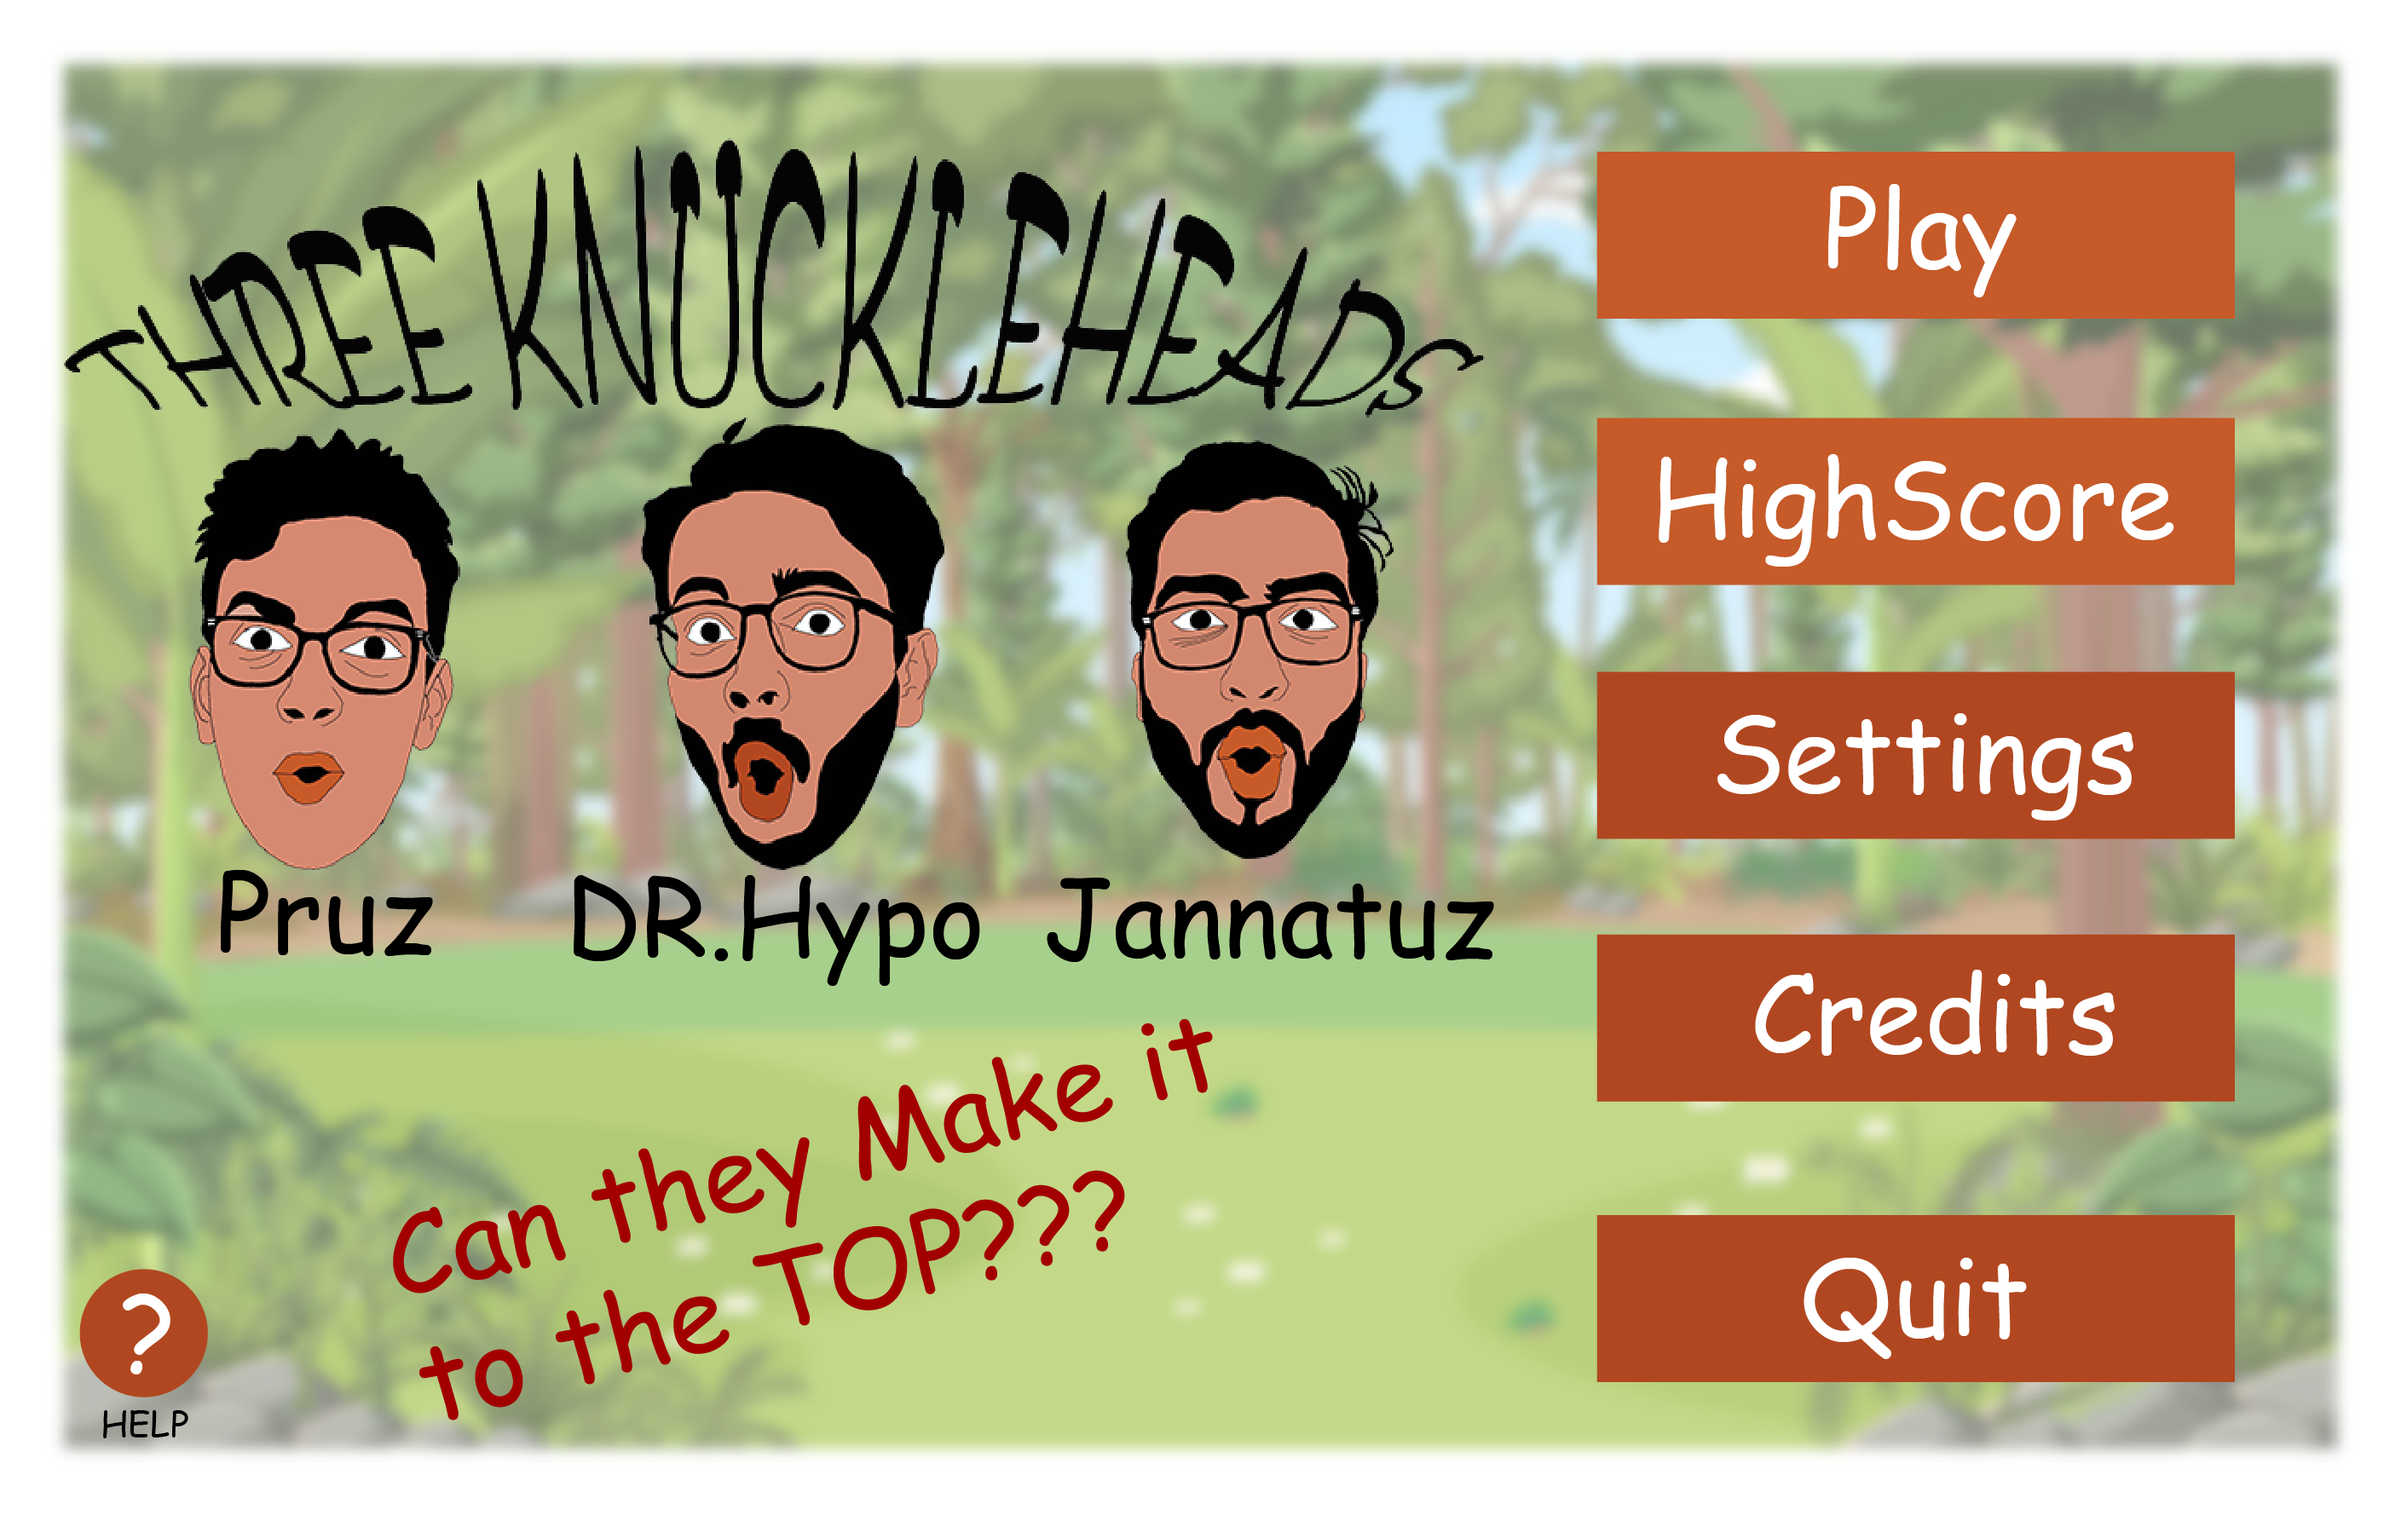
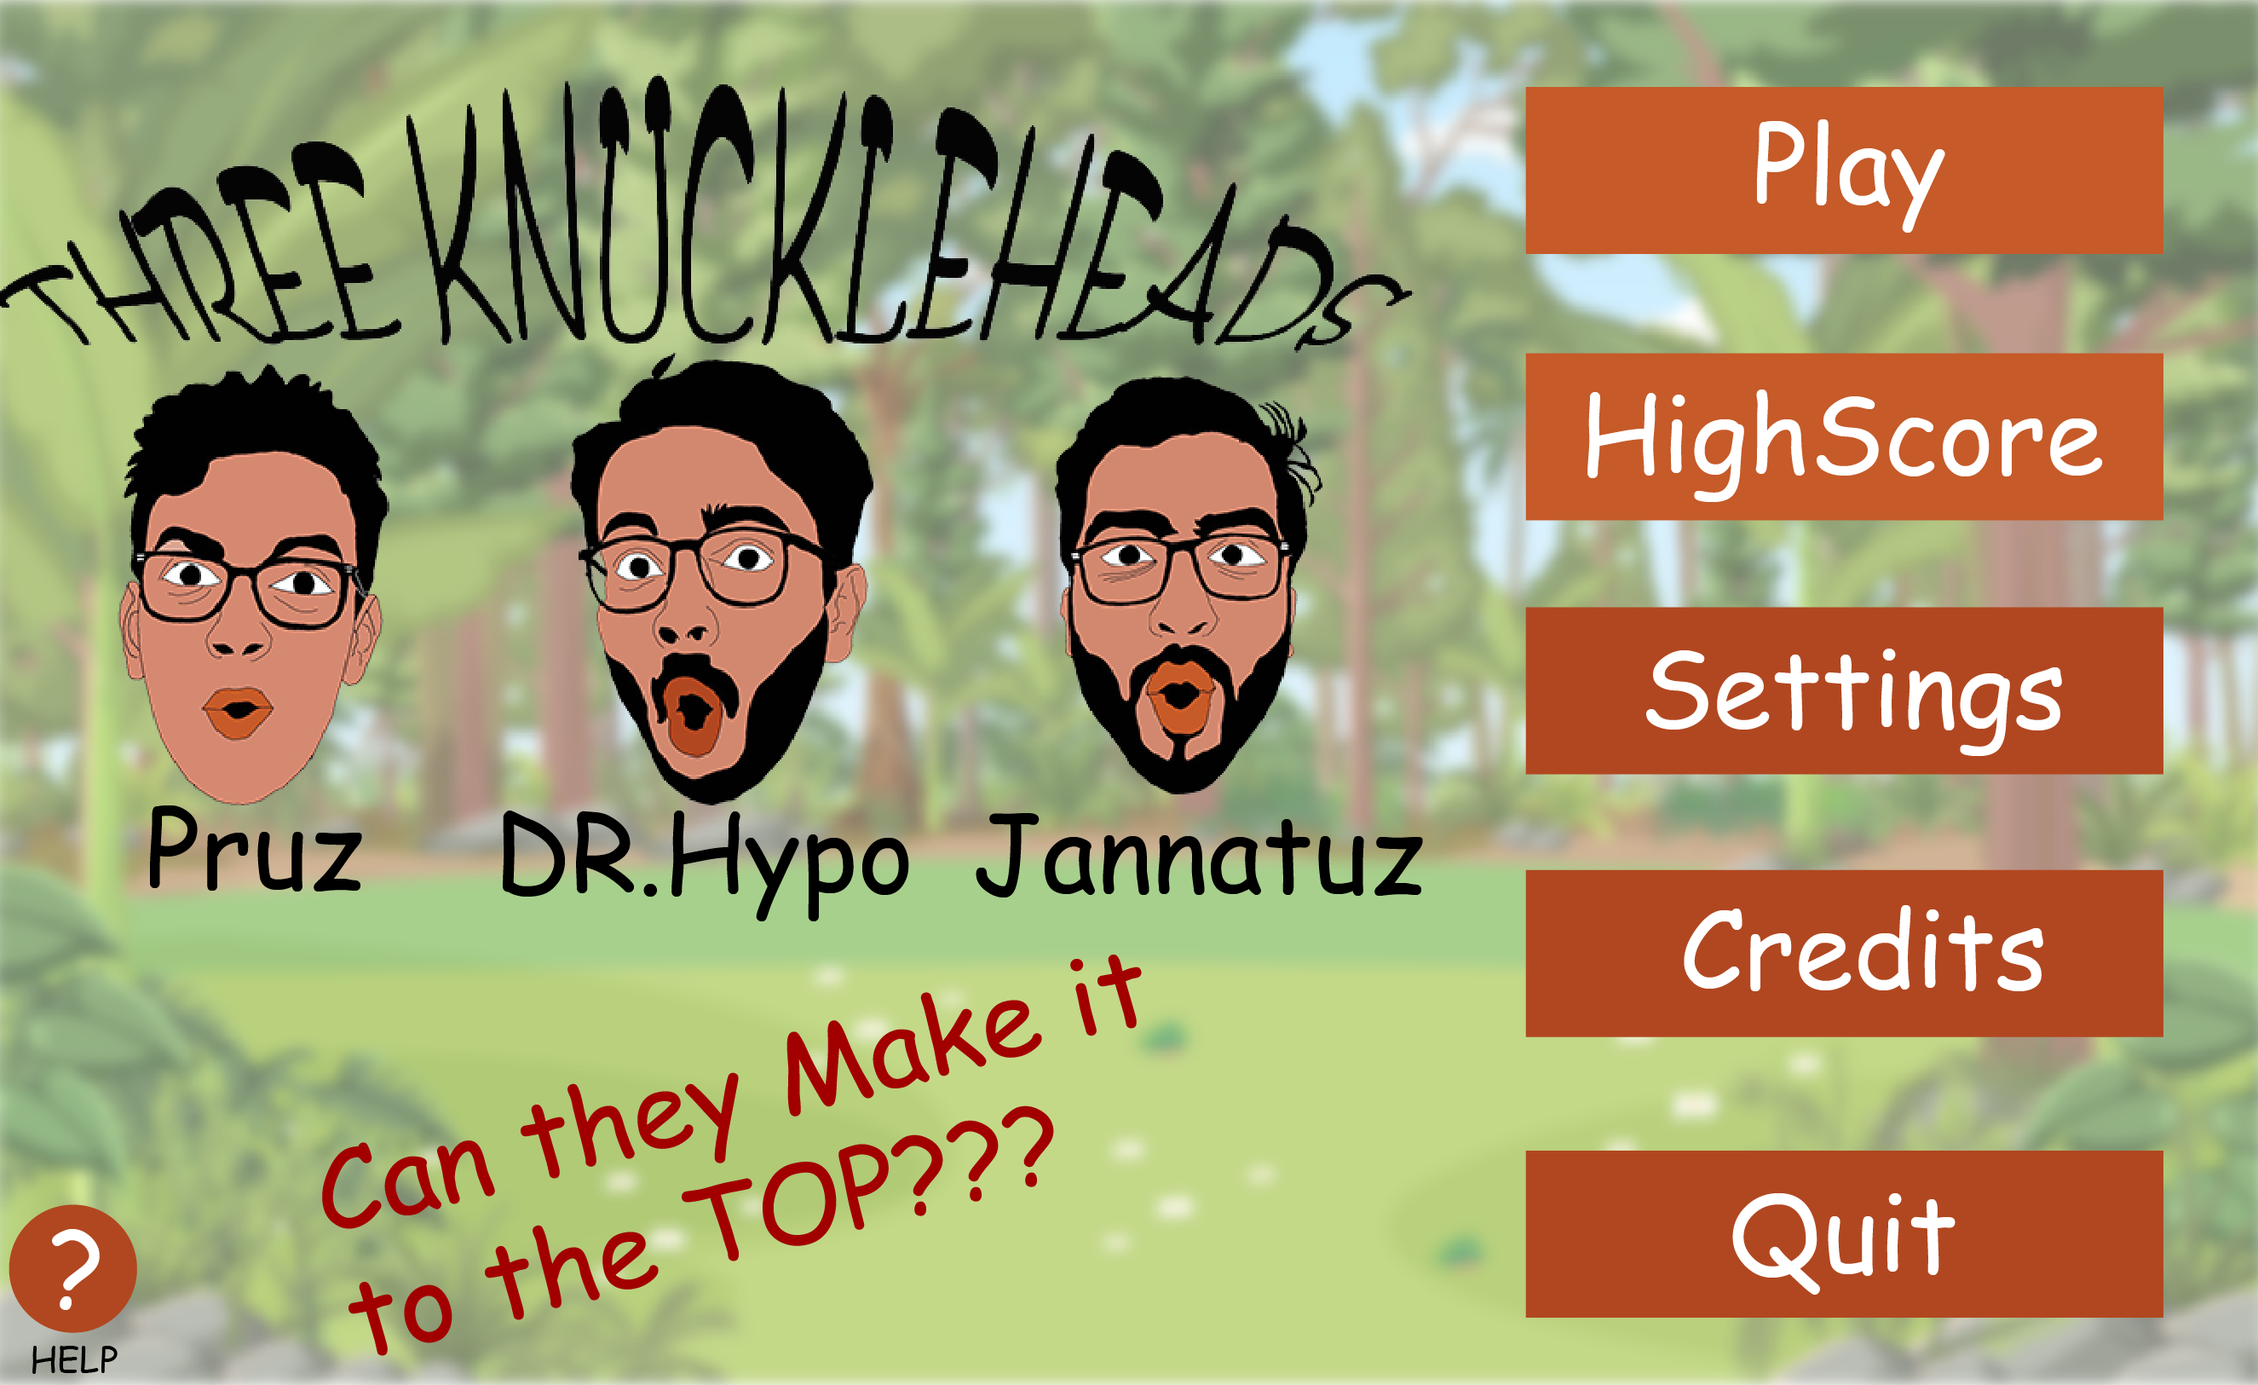
lotta work

diff --git a/Three Knuckleheads Game/Three Knuckleheads Game/iMain.cpp b/Three Knuckleheads Game/Three Knuckleheads Game/iMain.cpp
@@ -3,7 +3,14 @@
 #include<vector>
 using namespace std;
 
-int background_sprite, score_sprite;
+#define SCREEN_WIDTH 1280
+#define SCREEN_HEIGHT 780
+
+enum pages { MENU, SETTINGS, LEVELS, SCORE, CREDITS, HELP, LVL1, LVL2, LVL3, BOSS };
+pages page = MENU;
+void changePage(pages p);
+
+int background_sprite, score_sprite, menu_sprite;
 int jannatuz_sprite, pruz_sprite, hypo_sprite;
 int pipe_sprite;
 int cat_sprites[11];
@@ -80,7 +87,7 @@ int rightFlag = 0, leftFlag = 0;
 
 typedef struct cat cat;
 struct cat{
-	int posX = 50, posY = 640;
+	int posX = 50, posY = (SCREEN_HEIGHT / 2);
 
 	int bottomX, bottomY;
 	int topX, topY;
@@ -165,7 +172,7 @@ struct cat{
 	}
 };
 
-int enemy_count_max = 8;
+int enemy_count_max = 10;
 vector<cat> enemies; // initial 0
 
 typedef struct pipe pipe;
@@ -183,7 +190,7 @@ struct pipe{ // Defines the platform (aka pipe) as a struct
 	};
 
 	void render(){
-			iShowImage(posX, posY, sizeX, sizeY, pipe_sprite);
+		iShowImage(posX, posY, sizeX, sizeY, pipe_sprite);
 	}
 
 	int isColliding(int x, int y){ // checks if target is colliding with a particular pipe or not
@@ -208,6 +215,39 @@ struct pipe{ // Defines the platform (aka pipe) as a struct
 
 vector<pipe> all_pipes; // vector to maintain all the pipes
 
+int mouseX, mouseY;
+
+typedef struct button button;
+struct button{
+	int rightX, leftX, topY, bottomY;
+	(void*)func;
+	
+	button(){ ; };
+
+	button(int rX, int lX, int tY, int bY, void (*f)(void)){
+		rightX = rX;
+		leftX = lX;
+		topY = tY;
+		bottomY = bY;
+
+		func = f;
+	};
+
+	bool hasPressed(){
+		if (mouseX >= leftX && mouseX <= rightX && mouseY >= bottomY && mouseY <= topY){
+			return true;
+		}
+		return false;
+	}
+
+	void callFunc(){
+		((void(*)())func)();
+	}
+};
+
+int button_count = 6;
+button buttons[6];
+
 void images()
 {
 	///updated see the documentations
@@ -217,6 +257,7 @@ void images()
 	score_sprite = iLoadImage("./images/board.png");
 	hypo_sprite = iLoadImage("./images/ashfaq.png");
 	pipe_sprite = iLoadImage("./images/pipe.png");
+	menu_sprite = iLoadImage("./images/Menu.png");
 
 	cat_sprites[0] = iLoadImage("./images/cat/Walk (1).png");
 	cat_sprites[1] = iLoadImage("./images/cat/Walk (2).png");
@@ -272,24 +313,20 @@ void generateMap(){
 
 	// Side (out of screen) pipes, so that player does not fall when looping the screen
 	all_pipes.push_back(pipe(-120, 300));
-	all_pipes.push_back(pipe(1280, 300));
-	all_pipes.push_back(pipe(1280, 450));
+	all_pipes.push_back(pipe(SCREEN_WIDTH, 300));
+	all_pipes.push_back(pipe(SCREEN_WIDTH, 450));
 	all_pipes.push_back(pipe(-120, 600));
-	all_pipes.push_back(pipe(1280, 600));
+	all_pipes.push_back(pipe(SCREEN_WIDTH, 600));
 }
 //:::::::::::::::::::::::::::::::::::::::::::::::::::::::::::::::::::::::::::::::::Idraw Here::::::::::::::::::::::::::::::::::::::::::::::::::::::::::::::::::::::::::::::::::::::::://
-
-
-void iDraw()
-{
-	iClear();
+void drawLvl1(){
 	current_player.updateBounds();
 
 	for (int i = 0; i < enemies.size(); i++)
 		enemies[i].updateBounds();
 
-	iShowImage(0, 150, 1280, 650, background_sprite);
-	
+	iShowImage(0, 150, SCREEN_WIDTH, 650, background_sprite);
+
 	// render the player
 	current_player.render();
 	for (int i = 0; i < enemies.size(); i++){
@@ -300,7 +337,7 @@ void iDraw()
 	//iShowImage(250, 650, 100, 50, pruz_sprite);
 
 	playerCollisionFlag = 0; // flag for colliding
-	
+
 	for (int i = 0; i < all_pipes.size(); i++){
 		all_pipes[i].render();
 
@@ -345,7 +382,18 @@ void iDraw()
 		}
 	}
 
-	iShowImage(0, 0, 1280, 170, score_sprite);
+	bool allDead = true;
+	for (int i = 0; i < enemies.size(); i++){
+		if (!enemies[i].isDead){
+			allDead = false;
+		}
+	}
+
+	if (allDead){
+		// you win
+	}
+
+	iShowImage(0, 0, SCREEN_WIDTH, 170, score_sprite);
 
 	iSetColor(55, 228, 255);
 
@@ -359,9 +407,49 @@ void iDraw()
 
 	char levelS[20];
 	sprintf_s(levelS, "%d", level);
-	iText(1135, 83, levelS, GLUT_BITMAP_TIMES_ROMAN_24);
+	iText(800, 83, levelS, GLUT_BITMAP_TIMES_ROMAN_24);
 
 	iSetColor(0, 0, 0);
+}
+
+void drawMenu(){
+	iShowImage(0, 0, SCREEN_WIDTH, SCREEN_HEIGHT, menu_sprite);
+}
+
+void iDraw()
+{
+	iClear(); // MENU, SETTINGS, LEVELS, SCORE, CREDITS, HELP, LVL1, LVL2, LVL3, BOSS
+
+	if (page == MENU){
+		drawMenu();
+	}
+	else if (page == SETTINGS){
+
+	}
+	else if (page == LEVELS){
+
+	}
+	else if (page == SCORE){
+
+	}
+	else if (page == CREDITS){
+
+	}
+	else if (page == HELP){
+
+	}
+	else if (page == LVL1){
+		drawLvl1();
+	}
+	else if (page == LVL2){
+		//drawLvl2();
+	}
+	else if (page == LVL3){
+		//drawLvl3();
+	}
+	else if (page == BOSS){
+
+	}
 }
 
 void updateLoop(){
@@ -414,13 +502,13 @@ void updateLoop(){
 	}
 
 	// Screen looping logic 
-	if (current_player.posX > 1280)
+	if (current_player.posX > SCREEN_WIDTH)
 	{
 		current_player.posX = 0;
 	}
 	else if (current_player.posX < 0)
 	{
-		current_player.posX = 1280;
+		current_player.posX = SCREEN_WIDTH;
 	}
 
 	if (current_player.posY < 0 && health > 0){
@@ -429,20 +517,20 @@ void updateLoop(){
 
 	for (int i = 0; i < enemies.size(); i++){
 
-		if (enemies[i].posX > 1280)
+		if (enemies[i].posX > SCREEN_WIDTH)
 		{
 			enemies[i].posX = 0;
 
 			if (enemies[i].posY < 250){
-				enemies[i].posY = 640;
+				enemies[i].posY = (SCREEN_HEIGHT / 2);
 			}
 		}
 		else if (enemies[i].posX < 0)
 		{
-			enemies[i].posX = 1280;
+			enemies[i].posX = SCREEN_WIDTH;
 
 			if (enemies[i].posY < 250){
-				enemies[i].posY = 640;
+				enemies[i].posY = (SCREEN_HEIGHT / 2);
 			}
 		}
 	}
@@ -504,8 +592,14 @@ void iMouse(int button, int state, int mx, int my)
 
 	if (button == GLUT_LEFT_BUTTON && state == GLUT_DOWN)
 	{
-
-
+		mouseX = mx;
+		mouseY = my;
+		for (int i = 0; i < button_count; i++){
+			if (buttons[i].hasPressed()){
+				buttons[i].callFunc();
+				
+			}
+		}
 	}
 
 
@@ -566,13 +660,40 @@ void iSpecialKeyboard(unsigned char key)
 
 }
 
+void play(){
+	changePage(LEVELS);
+}
 
-int main()
-{
-	///srand((unsigned)time(NULL));
-	iInitialize(1280, 780, "Three Knuckleheads");
-	
-	images(); // used an image function to declare the images
+void highscore(){
+	changePage(SCORE);
+}
+
+void settings(){
+	changePage(SETTINGS);
+}
+
+void credits(){
+	changePage(CREDITS);
+}
+
+void quit(){
+	exit(0);
+}
+
+void help(){
+	changePage(HELP);
+}
+
+void startMenu(){
+	buttons[0] = button(1220, 870, 730, 640, play);
+	buttons[1] = button(1220, 870, 580, 490, highscore);
+	buttons[2] = button(1220, 870, 430, 340, settings);
+	buttons[3] = button(1220, 870, 280, 190, credits);
+	buttons[4] = button(1220, 870, 130, 40, quit);
+	buttons[5] = button(75, 5, 100, 30, play);
+}
+
+void startLvl1(){
 	generateMap(); // used a generateMap function to generate the pipes on the foreground
 
 	iSetTimer(25, updateLoop);
@@ -580,6 +701,27 @@ int main()
 
 	iSetTimer(100, updateCatAnim);
 	iSetTimer(10, updateBumpStatus);
+}
+
+void changePage(pages p){
+	page = p;
+
+	if (page == MENU){
+		startMenu();
+	}
+	else if (page == LVL1){
+		startLvl1();
+	}
+}
+
+int main()
+{
+	///srand((unsigned)time(NULL));
+	iInitialize(SCREEN_WIDTH, SCREEN_HEIGHT, "Three Knuckleheads");
+	
+	images(); // used an image function to declare the images
+
+	changePage(MENU);
 
 	glutSpecialUpFunc(specialUp); // subscribe the specialUp function to the glutSpecialUpFunc from glut.h
 	iStart();
